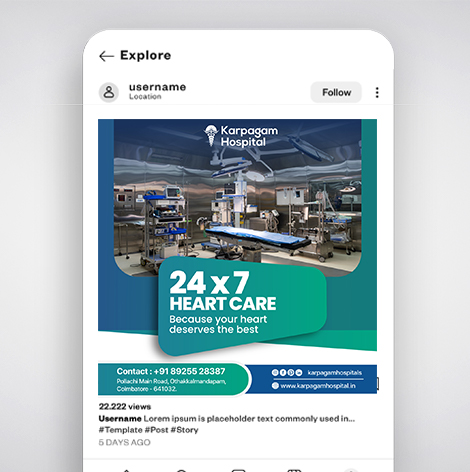
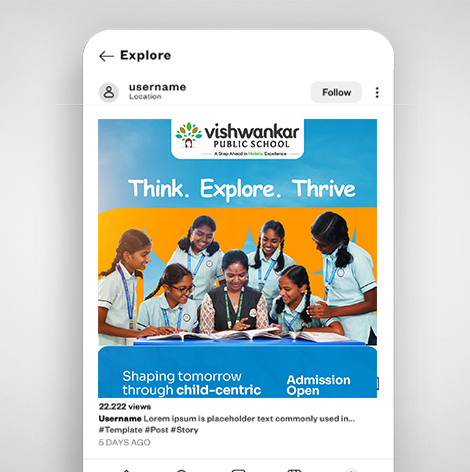
portfolio update

diff --git a/app/(service)/digital-marketing-service/page.jsx b/app/(service)/digital-marketing-service/page.jsx
@@ -291,36 +291,36 @@ export default function page() {
   }
   const portfolioItems = [
     {
-      title: "Rhythm Fashion",
-      image: "/images/services/E-commerce/mockup-5.jpg",
+      title: "Kumars Houston",
+      image: "/images/services/digital-marketing/mockup-1.jpg",
       className: "col-lg-3 col-md-3 col-sm-6",
       delay: "0.6s",
       duration: "1.12s",
-      link: "https://rhythmfashion.com/"
+     link: "https://www.kumarmesshouston.com/"
     },
     {
-      title: "Thangam Jewelry",
-      image: "/images/services/E-commerce/mockup-2.jpg",
+      title: "Vishwankar School",
+      image: "/images/services/digital-marketing/mockup-2.jpg",
       className: "col-lg-3 col-md-3 col-sm-6",
       delay: "0.6s",
       duration: "1.3s",
-      link: "https://sreethangamjewellery.com/"
+      link: "https://vishwankarschool.com/"
     },
     {
-      title: "Thangam Jewelry",
-      image: "/images/services/E-commerce/mockup-3.jpg",
+      title: "Gomuki",
+      image: "/images/services/digital-marketing/mockup-3.jpg",
       className: "col-lg-3 col-md-3 col-sm-6",
       delay: "0.9s",
       duration: "1.6s",
-      link: "https://goesgood.in/"
+    link: "https://srigomuki.com/"
     },
     {
-      title: "Faso",
-      image: "/images/services/E-commerce/mockup-4.jpg",
+      title: "Tirumalai Textiles",
+      image: "/images/services/digital-marketing/mockup-4.jpg",
       className: "col-lg-3 col-md-3 col-sm-6",
       delay: "0.3s",
       duration: "1.9s",
-      link: "https://faso.in/"
+     link: "https://tirumalaitextiles.com/"
     },
 
     // {
